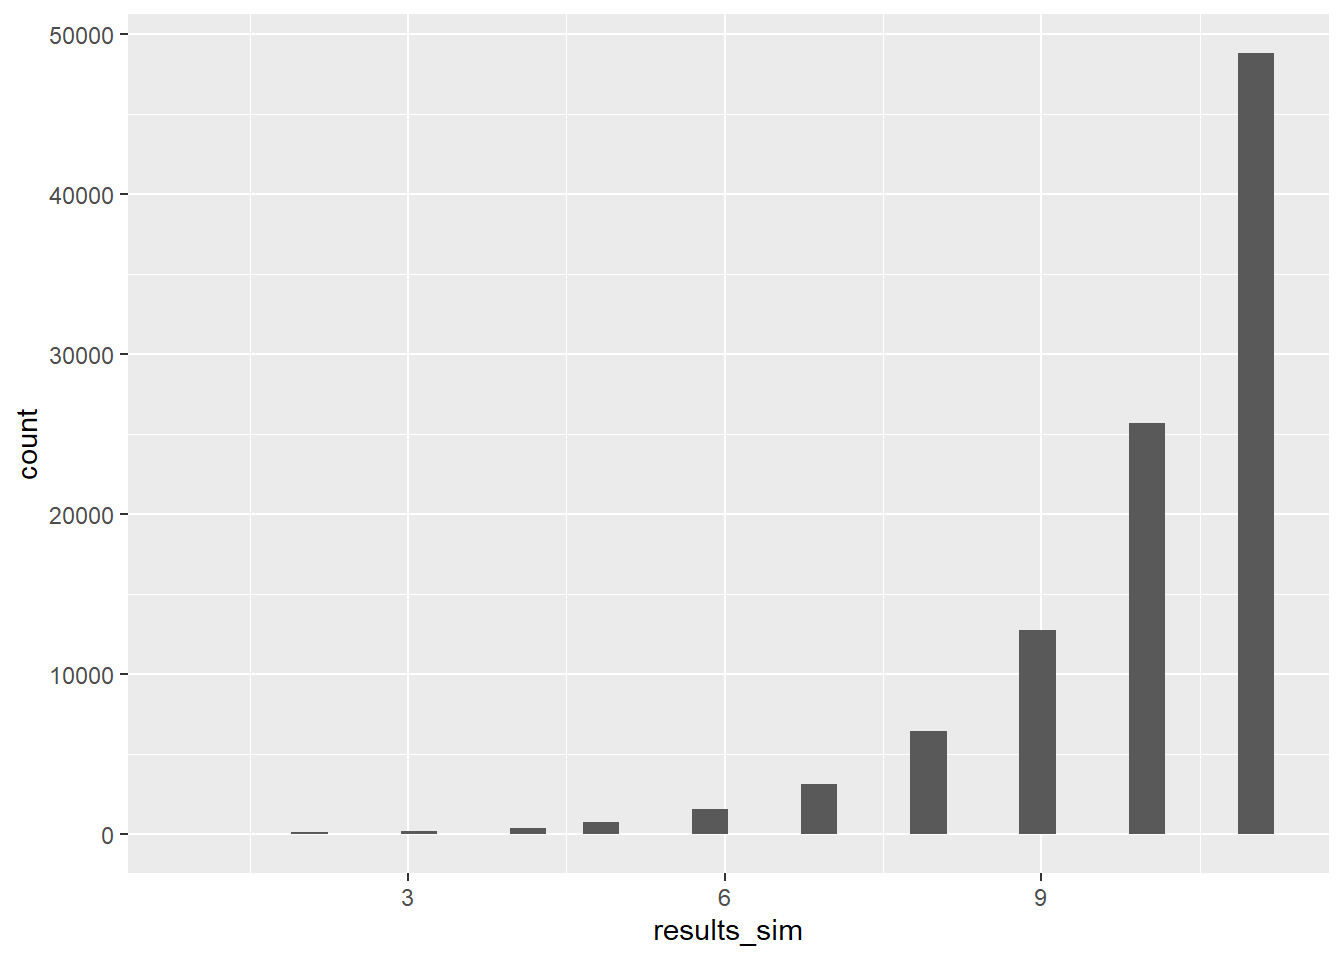
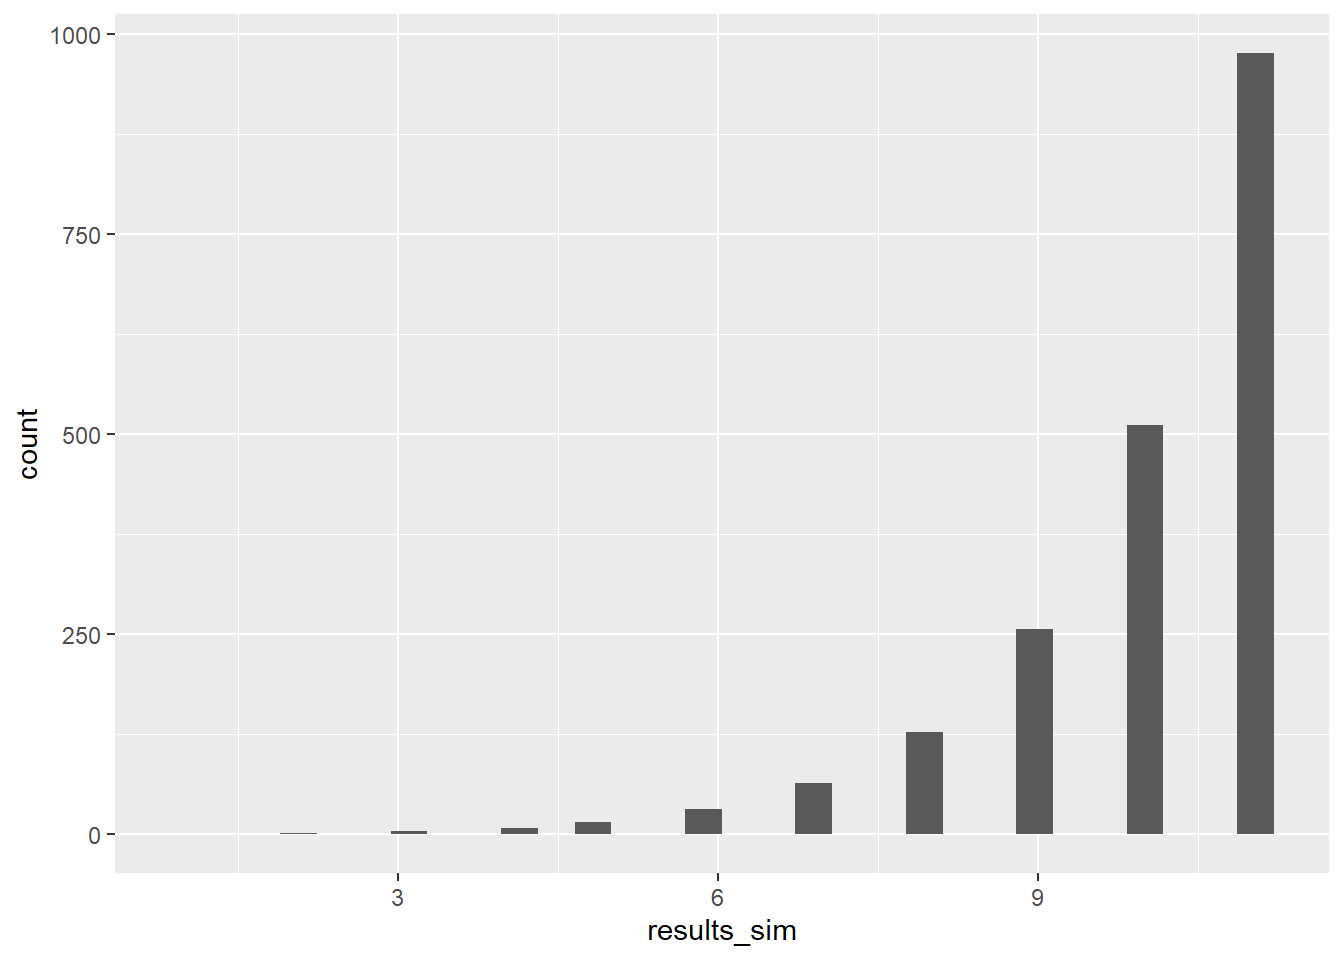
I tried to do some simulations last night that now I am realizing were flawed, removed and added some thery.

diff --git a/Assignments/Algorithms Assignment 1/Assignment 1 - Eric Folsom.html b/Assignments/Algorithms Assignment 1/Assignment 1 - Eric Folsom.html
@@ -299,63 +299,44 @@ This took  11  operations.</code></pre>
 </section>
 <section id="d.-what-is-the-worst-case-time-complexity-evaluate-line-by-line-create-a-time-complexity-function-and-then-define-its-big-o-value." class="level4">
 <h4 class="anchored" data-anchor-id="d.-what-is-the-worst-case-time-complexity-evaluate-line-by-line-create-a-time-complexity-function-and-then-define-its-big-o-value.">d.&nbsp;What is the worst case time complexity? Evaluate line by line, create a time complexity function and then define its Big O value.</h4>
-<p>Assume we have an ordered array <span class="math inline">\(X=\{x_0,x_1,\ldots,x_n\}\)</span>, where <span class="math inline">\(x_i \leq x_{i+1}\)</span>, where <span class="math inline">\(i=1,2,3,\ldots,n\)</span>. To figure out what the worst case time complextiy for this algorithm is, lets take the case of the item we are searching for being <span class="math inline">\(x_n\)</span>, the last item of our array. If we were searching one item at a time, our time complexity function would be <span class="math inline">\(O(n)\)</span>.</p>
-<p>The first time we divide the</p>
+<p>Assume we have an ordered array <span class="math inline">\(X=\{x_0,x_1,\ldots,x_n\}\)</span>, where <span class="math inline">\(x_i \leq x_{i+1}\)</span>, where <span class="math inline">\(i=1,2,3,\ldots,n\)</span>. Lets consider the case of the item we are searching for being <span class="math inline">\(x_n\)</span>, the last item of our array. If we were searching one item at a time, as with linear search, our time complexity function would be <span class="math inline">\(O(n)\)</span>.</p>
+<p>To find the worst case time complexity for our binary search function we should consider the case where we are searching for the item in index <code>[0]</code> of our array, or the first item in the array (the same idea holds if we were searching for the item in index <code>[n-1]</code>, the last item in our array). Because we are dividing the search area in half for each iteration, we are solving the problem of <span class="math inline">\(\frac{n}{2^x}=1\)</span>. Where <span class="math inline">\(n\)</span> is the number of items in our array, and <span class="math inline">\(x\)</span> is the number of divisions required to have 1 element.</p>
+<p>We can show this via the following where we will solve this equation for <span class="math inline">\(x\)</span>, the number of iterations, for a given <span class="math inline">\(n\)</span>:</p>
+<p>above we have shown that it will take at most <span class="math inline">\(\log_2(n)\)</span> steps to reduce the size of our search area to <span class="math inline">\(1\)</span> index, given an array of size <span class="math inline">\(n\)</span>. Thus we can say that the worst case time complexity of our binary search algorithm is <span class="math inline">\(O(\log_2(n))\)</span>.</p>
 </section>
 <section id="e.-what-would-the-worst-case-time-complexity-be-if-we-have-4000-entries-instead-of-2000" class="level4">
 <h4 class="anchored" data-anchor-id="e.-what-would-the-worst-case-time-complexity-be-if-we-have-4000-entries-instead-of-2000">e. What would the worst case time complexity be if we have 4000 entries instead of 2000?</h4>
-<p>The time complexity function for this algorithm is <span class="math inline">\(O(\log_2(n))\)</span>. Thus we can say that the worst case time complexity if we have 4000 entries is found by <span class="math inline">\(\log_2(4000) \approx\)</span> 12. This is in contrast to if we only had 2000 entries where the worst case time complexity would be <span class="math inline">\(\log_2(2000)\approx\)</span> 11.</p>
+<p>The worst case time complexity function for this algorithm is <span class="math inline">\(O(\log_2(n))\)</span>. Thus we can say that the worst case time complexity if we have <span class="math inline">\(4000\)</span> entries is found by <span class="math inline">\(\log_2(4000) \approx\)</span> 12. This is in contrast to if we only had <span class="math inline">\(2000\)</span> entries where the worst case time complexity would be <span class="math inline">\(\log_2(2000)\approx\)</span> 11. If we were to again double the size of of our array to <span class="math inline">\(8000\)</span> entries, the worst case time complexity would be <span class="math inline">\(\log_2(8000)\approx\)</span> 13steps to find an item in the array.</p>
 </section>
 <section id="f.-what-do-you-think-the-average-case-time-complexity-is-for-binary-search-explain-your-reasoning." class="level4">
 <h4 class="anchored" data-anchor-id="f.-what-do-you-think-the-average-case-time-complexity-is-for-binary-search-explain-your-reasoning.">f.&nbsp;What do you think the average case time complexity is for binary search? Explain your reasoning.</h4>
-<p>I think that the average case time complexity for binary search is <span class="math inline">\(\log_2(n)\)</span>. I will demonstrate this with a simulation. For this I will use <code>numbers.txt</code>, which has <span class="math inline">\(1999\)</span> elements, and perform a random sample of the indicies of <code>numbers.txt</code>, where <span class="math inline">\(n=100000\)</span> random indicies of <code>numbers.txt</code>.</p>
-<p>We hypothesize that the average time complexity for binary search is <span class="math inline">\(\log_2(n)\)</span>, where <span class="math inline">\(n\)</span> is the number of items (indicies) of an array.</p>
+<p>I would hypothesize that the average time complexity for binary search is <span class="math inline">\(\log_2(n)\)</span>, where <span class="math inline">\(n\)</span> is the number of items (indicies) of an array.</p>
 <p>It is important to note that, <span class="math inline">\(\log_2(2000)\approx\)</span> 11.</p>
-<p>To begin I will, using R, create a vector of random possible indicies of <code>numbers.txt</code> which has <span class="math inline">\(1999\approx 2000\)</span> indicies.</p>
+<p>To show that the average time complexity for this function is <span class="math inline">\(\log_2(n)\)</span>, I will simply run it for each index of <code>numbers.txt</code> and record the number of operations it takes to find the value, then investigate the distribution of the number of operations.</p>
 <div class="cell">
-<div class="sourceCode cell-code" id="cb9"><pre class="sourceCode r code-with-copy"><code class="sourceCode r"><span id="cb9-1"><a href="#cb9-1" aria-hidden="true" tabindex="-1"></a><span class="do">#### Some R code to establish the average time complexity of </span></span>
-<span id="cb9-2"><a href="#cb9-2" aria-hidden="true" tabindex="-1"></a><span class="do">#### the binary search function. I am using R to sample random</span></span>
-<span id="cb9-3"><a href="#cb9-3" aria-hidden="true" tabindex="-1"></a><span class="do">#### indicies of numbers.txt, which I will then use in python to save the numbers of operations</span></span>
-<span id="cb9-4"><a href="#cb9-4" aria-hidden="true" tabindex="-1"></a><span class="do">#### it takes to find that specific value in numbers.txt, then I will create a distribution of</span></span>
-<span id="cb9-5"><a href="#cb9-5" aria-hidden="true" tabindex="-1"></a><span class="do">#### the number of operations in R and find the average number of operations. Then I will compare my </span></span>
-<span id="cb9-6"><a href="#cb9-6" aria-hidden="true" tabindex="-1"></a><span class="do">#### emperical average from my simulation to my hypothesized value of $log_2(1999)\approx 11$.  </span></span>
-<span id="cb9-7"><a href="#cb9-7" aria-hidden="true" tabindex="-1"></a></span>
-<span id="cb9-8"><a href="#cb9-8" aria-hidden="true" tabindex="-1"></a></span>
-<span id="cb9-9"><a href="#cb9-9" aria-hidden="true" tabindex="-1"></a>n<span class="ot">&lt;-</span><span class="dv">100000</span>                           <span class="co">#number of random indicies we want to samples</span></span>
-<span id="cb9-10"><a href="#cb9-10" aria-hidden="true" tabindex="-1"></a>ind_numbers<span class="ot">&lt;-</span><span class="fu">as.integer</span>(<span class="fu">round</span>(<span class="fu">runif</span>(n,<span class="dv">0</span>,<span class="dv">1998</span>)))<span class="co">#drawing random indicies from a discrete uniform(0,1998) dist.</span></span>
-<span id="cb9-11"><a href="#cb9-11" aria-hidden="true" tabindex="-1"></a>                                    <span class="co">#rounding ensures integer values</span></span>
-<span id="cb9-12"><a href="#cb9-12" aria-hidden="true" tabindex="-1"></a><span class="fu">View</span>(ind_numbers)</span>
-<span id="cb9-13"><a href="#cb9-13" aria-hidden="true" tabindex="-1"></a><span class="fu">write.table</span>(ind_numbers, <span class="st">"clipboard"</span>, <span class="at">sep=</span><span class="st">","</span>) </span></code><button title="Copy to Clipboard" class="code-copy-button"><i class="bi"></i></button></pre></div>
-<div class="cell-output cell-output-stderr">
-<pre><code>Warning in write.table(ind_numbers, "clipboard", sep = ","): clipboard buffer
-is full and output lost</code></pre>
-</div>
-</div>
-<p>Now that we have our vector of random integers we can move on to python.</p>
-<div class="cell">
-<div class="sourceCode cell-code" id="cb11"><pre class="sourceCode python code-with-copy"><code class="sourceCode python"><span id="cb11-1"><a href="#cb11-1" aria-hidden="true" tabindex="-1"></a>ind_data <span class="op">=</span> r.ind_numbers <span class="co">#accessing the vector just created in R</span></span>
-<span id="cb11-2"><a href="#cb11-2" aria-hidden="true" tabindex="-1"></a></span>
-<span id="cb11-3"><a href="#cb11-3" aria-hidden="true" tabindex="-1"></a>operations_numbers <span class="op">=</span> [] <span class="co">#storage vector for the number of operations each function call takes.</span></span>
-<span id="cb11-4"><a href="#cb11-4" aria-hidden="true" tabindex="-1"></a></span>
-<span id="cb11-5"><a href="#cb11-5" aria-hidden="true" tabindex="-1"></a><span class="co"># each iteration searches for the value of the i-th index </span></span>
-<span id="cb11-6"><a href="#cb11-6" aria-hidden="true" tabindex="-1"></a><span class="co"># of ind_data which is a list of indices of numbers</span></span>
-<span id="cb11-7"><a href="#cb11-7" aria-hidden="true" tabindex="-1"></a><span class="co"># I think the time complexity of this is O(m*log_2(n)), where m is the number of simulations, and n is the</span></span>
-<span id="cb11-8"><a href="#cb11-8" aria-hidden="true" tabindex="-1"></a><span class="co"># size of the array you are performing binary search on. </span></span>
-<span id="cb11-9"><a href="#cb11-9" aria-hidden="true" tabindex="-1"></a><span class="cf">for</span> i <span class="kw">in</span> <span class="bu">range</span>(<span class="dv">0</span> ,<span class="bu">len</span>(ind_data)<span class="op">-</span><span class="dv">1</span>):</span>
-<span id="cb11-10"><a href="#cb11-10" aria-hidden="true" tabindex="-1"></a>   _,_, ops <span class="op">=</span> binary_search(numbers[ind_data[i]], numbers)</span>
-<span id="cb11-11"><a href="#cb11-11" aria-hidden="true" tabindex="-1"></a>   operations_numbers.append(ops) </span></code><button title="Copy to Clipboard" class="code-copy-button"><i class="bi"></i></button></pre></div>
-<div class="sourceCode cell-code" id="cb12"><pre class="sourceCode python code-with-copy"><code class="sourceCode python"><span id="cb12-1"><a href="#cb12-1" aria-hidden="true" tabindex="-1"></a><span class="bu">print</span>(operations_numbers)</span></code><button title="Copy to Clipboard" class="code-copy-button"><i class="bi"></i></button></pre></div>
+<div class="sourceCode cell-code" id="cb9"><pre class="sourceCode python code-with-copy"><code class="sourceCode python"><span id="cb9-1"><a href="#cb9-1" aria-hidden="true" tabindex="-1"></a>ind_data <span class="op">=</span> <span class="bu">list</span>(<span class="bu">range</span>(<span class="dv">1999</span>)) <span class="co"># indicies of the data that we want, data=numbers.txt</span></span>
+<span id="cb9-2"><a href="#cb9-2" aria-hidden="true" tabindex="-1"></a></span>
+<span id="cb9-3"><a href="#cb9-3" aria-hidden="true" tabindex="-1"></a>operations_numbers <span class="op">=</span> [] <span class="co">#storage vector for the number of operations each function call takes.</span></span>
+<span id="cb9-4"><a href="#cb9-4" aria-hidden="true" tabindex="-1"></a></span>
+<span id="cb9-5"><a href="#cb9-5" aria-hidden="true" tabindex="-1"></a><span class="co"># each iteration searches for the value of the i-th index </span></span>
+<span id="cb9-6"><a href="#cb9-6" aria-hidden="true" tabindex="-1"></a><span class="co"># of ind_data which is a list of indices of numbers</span></span>
+<span id="cb9-7"><a href="#cb9-7" aria-hidden="true" tabindex="-1"></a><span class="co"># I think the time complexity of this is O(m*log_2(n)), where m is the number of simulations, and n is the</span></span>
+<span id="cb9-8"><a href="#cb9-8" aria-hidden="true" tabindex="-1"></a><span class="co"># size of the array you are performing binary search on. </span></span>
+<span id="cb9-9"><a href="#cb9-9" aria-hidden="true" tabindex="-1"></a><span class="cf">for</span> i <span class="kw">in</span> <span class="bu">range</span>(<span class="dv">1999</span>):</span>
+<span id="cb9-10"><a href="#cb9-10" aria-hidden="true" tabindex="-1"></a>   _,_, ops <span class="op">=</span> binary_search(numbers[i], numbers)</span>
+<span id="cb9-11"><a href="#cb9-11" aria-hidden="true" tabindex="-1"></a>   operations_numbers.append(ops) </span></code><button title="Copy to Clipboard" class="code-copy-button"><i class="bi"></i></button></pre></div>
+<div class="sourceCode cell-code" id="cb10"><pre class="sourceCode python code-with-copy"><code class="sourceCode python"><span id="cb10-1"><a href="#cb10-1" aria-hidden="true" tabindex="-1"></a><span class="bu">print</span>(operations_numbers)</span></code><button title="Copy to Clipboard" class="code-copy-button"><i class="bi"></i></button></pre></div>
 </div>
 <p>Now we return back to R to visualize the results.</p>
 <div class="cell">
-<div class="sourceCode cell-code" id="cb13"><pre class="sourceCode r code-with-copy"><code class="sourceCode r"><span id="cb13-1"><a href="#cb13-1" aria-hidden="true" tabindex="-1"></a><span class="co"># Here I am visualizing the results of the simulation on the number of operations it takes</span></span>
-<span id="cb13-2"><a href="#cb13-2" aria-hidden="true" tabindex="-1"></a><span class="co"># I am using R because I am more familiar with it and because ggplot2 is the best data </span></span>
-<span id="cb13-3"><a href="#cb13-3" aria-hidden="true" tabindex="-1"></a><span class="co"># visualizaiton tool out there.</span></span>
-<span id="cb13-4"><a href="#cb13-4" aria-hidden="true" tabindex="-1"></a></span>
-<span id="cb13-5"><a href="#cb13-5" aria-hidden="true" tabindex="-1"></a>results_sim <span class="ot">&lt;-</span> py<span class="sc">$</span>operations_numbers</span>
-<span id="cb13-6"><a href="#cb13-6" aria-hidden="true" tabindex="-1"></a>results_sim.df <span class="ot">&lt;-</span> <span class="fu">as.data.frame</span>(results_sim)</span>
-<span id="cb13-7"><a href="#cb13-7" aria-hidden="true" tabindex="-1"></a></span>
-<span id="cb13-8"><a href="#cb13-8" aria-hidden="true" tabindex="-1"></a><span class="fu">ggplot</span>(results_sim.df, <span class="fu">aes</span>(<span class="at">x=</span> results_sim))<span class="sc">+</span><span class="fu">geom_histogram</span>()</span></code><button title="Copy to Clipboard" class="code-copy-button"><i class="bi"></i></button></pre></div>
+<div class="sourceCode cell-code" id="cb11"><pre class="sourceCode r code-with-copy"><code class="sourceCode r"><span id="cb11-1"><a href="#cb11-1" aria-hidden="true" tabindex="-1"></a><span class="co"># Here I am visualizing the results of the simulation on the number of operations it takes</span></span>
+<span id="cb11-2"><a href="#cb11-2" aria-hidden="true" tabindex="-1"></a><span class="co"># I am using R because I am more familiar with it and because ggplot2 is the best data </span></span>
+<span id="cb11-3"><a href="#cb11-3" aria-hidden="true" tabindex="-1"></a><span class="co"># visualizaiton tool out there.</span></span>
+<span id="cb11-4"><a href="#cb11-4" aria-hidden="true" tabindex="-1"></a></span>
+<span id="cb11-5"><a href="#cb11-5" aria-hidden="true" tabindex="-1"></a>results_sim <span class="ot">&lt;-</span> py<span class="sc">$</span>operations_numbers</span>
+<span id="cb11-6"><a href="#cb11-6" aria-hidden="true" tabindex="-1"></a>results_sim.df <span class="ot">&lt;-</span> <span class="fu">as.data.frame</span>(results_sim)</span>
+<span id="cb11-7"><a href="#cb11-7" aria-hidden="true" tabindex="-1"></a></span>
+<span id="cb11-8"><a href="#cb11-8" aria-hidden="true" tabindex="-1"></a><span class="fu">ggplot</span>(results_sim.df, <span class="fu">aes</span>(<span class="at">x=</span> results_sim))<span class="sc">+</span><span class="fu">geom_histogram</span>()</span></code><button title="Copy to Clipboard" class="code-copy-button"><i class="bi"></i></button></pre></div>
 <div class="cell-output cell-output-stderr">
 <pre><code>`stat_bin()` using `bins = 30`. Pick better value with `binwidth`.</code></pre>
 </div>
@@ -367,7 +348,7 @@ is full and output lost</code></pre>
 </div>
 </div>
 </div>
-<p>We find that the average number of operations our binary search algorithm took to be 9.9796598 operations. We can compare this to our hypothesized value of <span class="math inline">\(11\)</span>.</p>
+<p>We find that the average number of operations our binary search algorithm took to be 9.9814907 operations. We can compare this to our hypothesized value of <span class="math inline">\(11\)</span>.</p>
 </section>
 </section>
 <section id="problem-4" class="level3">
@@ -376,41 +357,48 @@ is full and output lost</code></pre>
 <section id="a." class="level4">
 <h4 class="anchored" data-anchor-id="a.">a.</h4>
 <div class="cell">
-<pre class="none cell-code"><code>function sum(arr){
-  counter = 0
+<pre class="none cell-code"><code>function sum(arr){ ##Function that sums the values of an array
+  counter = 0 #counter for keeping track of sum of array
 
-  for (i = 0; i &lt; arr.length; i++) {
-       counter += arr[i]
+  for (i = 0; i &lt; arr.length; i++) { # n iterations, one for each entry of the array
+       counter += arr[i] # 1 operation each time
   }
 
      return counter
 }</code></pre>
 </div>
+<p>Because we are iterating through each index of the given array and performing one operation each time, we can say that the time complexity for this funciton can be given by <span class="math inline">\(O(n)\)</span>, where <span class="math inline">\(n\)</span> is the size of the array.</p>
 </section>
 <section id="b." class="level4">
 <h4 class="anchored" data-anchor-id="b.">b.</h4>
 <div class="cell">
-<pre class="none cell-code"><code>function getXOR(arr1, arr2){
+<pre class="none cell-code"><code>function getXOR(arr1, arr2){ # Exclusive Or, in A or B, but not both.
+                             # inputs are two arrays, returns values in only one
+  arr3 = []                  # of the arrays but not in both
 
-  arr3 = []
-
-  for (i = 0; i &lt; arr1.length; i++){
+  for (i = 0; i &lt; arr1.length; i++){ # n1 iterations, length of arr1
       let unique = True
-      for (j = 0; j &lt; arr2.length; j++ }{
+      for (j = 0; j &lt; arr2.length; j++ ){ # n2 iterations, length of arr2
         if(arr1[i] == arr2[j]) {unique = False;}
       }
       if (unique) {arr3.append(arr1[i]);}
     }
-  }  
-  for (i = 0; i &lt; arr2.length; i++){
+
+  # the above for loop takes n1*n2 iterations to complete
+
+  for (i = 0; i &lt; arr2.length; i++){ # n2 iterations, length of arr2
     let unique = True
-    for (j = 0; j &lt; arr1.length; j++ }{
+    for (j = 0; j &lt; arr1.length; j++ ){ # n1 iterations, length of arr1
       if(arr2[i] == arr1[j]) {unique = False;}
     }
     if (unique) {arr3.append(arr2[i]);}
   }
   return arr[3]
-}</code></pre>
+}
+
+  # the above for loop takes n1*n2 iteartions to complete
+  # each loop take place independently of each other
+  # </code></pre>
 </div>
 </section>
 </section>

diff --git a/Assignments/Algorithms Assignment 1/Assignment 1 - Eric Folsom.py b/Assignments/Algorithms Assignment 1/Assignment 1 - Eric Folsom.py
@@ -24,7 +24,7 @@ def binary_search(item, data, oper = False, diag = False):
    operations = 0 #creating a varaible to count the number of operations the 
 
    # Beginning the actual function
-   while x0 <= xn: #while we are searching valid indicies of our array
+   while x0 <= xn: #while we are searching valid indices of our array
       operations = operations + 1 #count one operation
       mid = (xn + x0) // 2 #pick the middle index of the array (floor operation)
       search = data[mid] # Value of the middle index (the one we are searching in)
